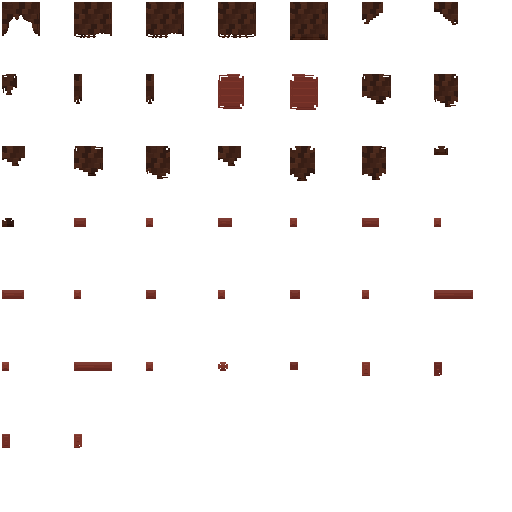
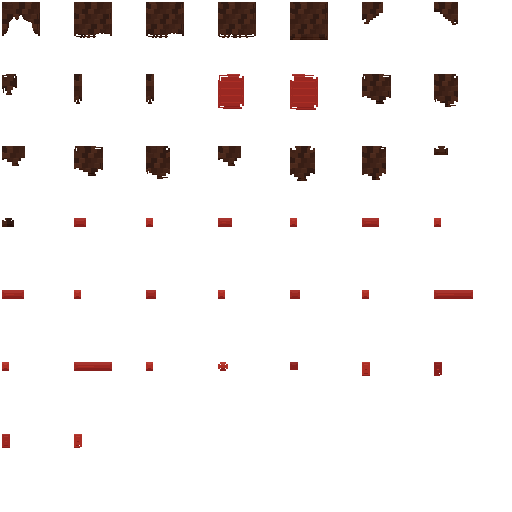
chore(project): refresh 4 project files
Modified: 4.
Text lines: +5 / -3; binary files: 1.
- Modify: "blender/characters/soldier/assets/haircards_v001/README.md"
- Modify: "blender/characters/soldier/assets/haircards_v001/make_design.py"
- Modify: "blender/characters/soldier/assets/haircards_v001/soldier_hair_bandana_atlas.png" (binary)
- Modify: "blender/characters/soldier/showcase/SOLDIER_Asset_Library.blend"

diff --git a/blender/characters/soldier/assets/haircards_v001/make_design.py b/blender/characters/soldier/assets/haircards_v001/make_design.py
@@ -5,7 +5,7 @@ import json,math
 D=Path(__file__).resolve().parent
 atlas=Image.new('RGBA',(512,512),(55,30,21,0));cards=[]
 HAIR=[(56,30,21),(63,34,24),(69,38,26),(49,27,20),(75,41,28)]
-CLOTH=[(113,47,38),(125,53,42),(101,40,33),(133,58,46)]
+CLOTH=[(155,40,34),(171,46,37),(134,32,29),(184,52,41)]
 def card(name,verts,w,h,polygon=None,kind='hair',seed=0):
  i=len(cards);x=4+(i%7)*72;y=4+(i//7)*72
  assert y+h+4<512

diff --git a/blender/characters/soldier/assets/haircards_v001/README.md b/blender/characters/soldier/assets/haircards_v001/README.md
@@ -15,3 +15,5 @@ Use normal `open_blender_viewer.py soldier`; SOLDIER Library → **2D Hair & Ban
 Native source comparison preserves all51pre-existing objects,8materials,8images,34Actions and2scenes. Geometry/UV/weights/authored transforms/animation curves are unchanged.20hair/22bandana cards are planar and binary-cutout; seven Head pose checks have maximum1.23e-7m attachment error. Original/new styles, both isolated modes, direct Preview dropdown transitions, independent bandana visibility and all5asset routes pass. Fresh review found and fixed dropdown/visibility disagreement, with reproduced RED→GREEN native checks. Actual native viewport was drawn in Original/2D/2D+Bandana front/3Q/side/back states. No additional scene, rig, bone or Action. Source/Godot file scan and native reports are saved here. Comparison images are `review/SOLDIER_Hair_Bandana_Comparison.png` and `review/SOLDIER_Full_Character_Comparison.png`; full-resolution individual close views remain alongside them.
 
 Latest bandana refinement: original wrap width46→69mm (1.5×), then69→103.5mm (another1.5×,2.25× original) at the user's request. Still zero solid thickness. The continuous flat ribbon tucks behind the unchanged central fringe and one side lock, so real hair geometry partially covers it. Original hair-card geometry/UV/pixels, wrap path and both tail shapes remain exact; data in bandana_width_refinement.json. Same Pending v001 assets/library; no Godot change.
+
+Bandana colour refinement: use a deeper, more saturated cloth-red palette (155/40/34,171/46/37,134/32/29,184/52/41) for the wrap, tie and tails. Geometry,103.5mm wrap width, hair overlap, UVs, hair pixels and binary alpha remain unchanged. Same Pending assets; Blender review only.
